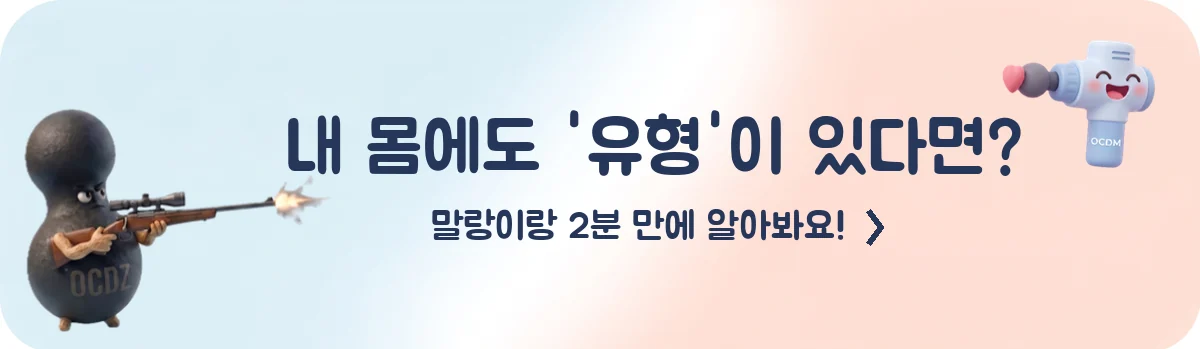
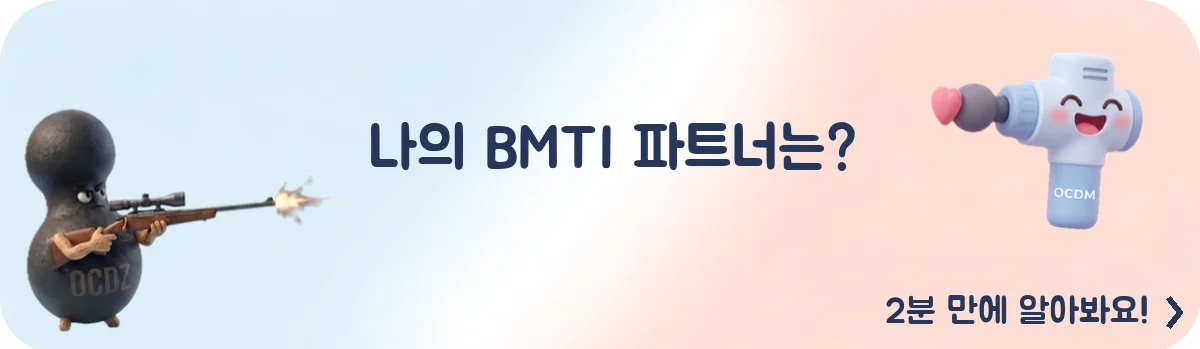
feat(home): 1번 배너 문구·OCDM 크기·서브 위치 수정
- OCDM 누끼 크게(180→250)
- 헤드라인 '나의 BMTI 파트너는?'
- 서브 '2분 만에 알아봐요! ›'를 우측 하단으로 이동

Changed region(s): [[0.2158, 0.1146, 0.9867, 0.659], [0.3392, 0.6017, 0.74, 0.6877], [0.74, 0.8309, 0.9867, 0.9456]]

diff --git a/src/components/HomeView.jsx b/src/components/HomeView.jsx
@@ -15,7 +15,7 @@ import heroBanner1 from '../assets/가로 광고 베너/hero_banner_1.webp';
 // 상단 가로형 광고 배너 — 4.5초마다 자동 전환되는 캐러셀로 노출한다.
 // img가 있으면 이미지 배너(문구가 이미지에 포함), 없으면 그라데이션+문구 배너.
 const HERO_BANNERS = [
-  { img: heroBanner1, title: "내 몸에도 ‘유형’이 있다면?", bg: '#EAF0F6', action: 'quiz' },
+  { img: heroBanner1, title: "나의 BMTI 파트너는?", bg: '#EAF0F6', action: 'quiz' },
   { emoji: '🌿', title: '오늘 내 몸 컨디션, 말랑이에게', sub: '하루 1분 기록 습관 · 다이어리 시작', bg: 'linear-gradient(100deg,#F6C453,#E8A33D)', dark: true, action: 'aichat' },
   { emoji: '📈', title: '쌓인 기록이 내 몸 패턴을 알려줘요', sub: '주간 리포트 · 파트너의 편지', bg: 'linear-gradient(100deg,#5B4B8A,#3E3266)', dark: false, action: 'aichat' },
   { emoji: '❄', title: '겨울, 앱으로 더 편하게 만나요', sub: '출시 · 혜택 소식 먼저 받기', bg: 'linear-gradient(100deg,#F7D000,#F0C400)', dark: true, action: 'signup' },
